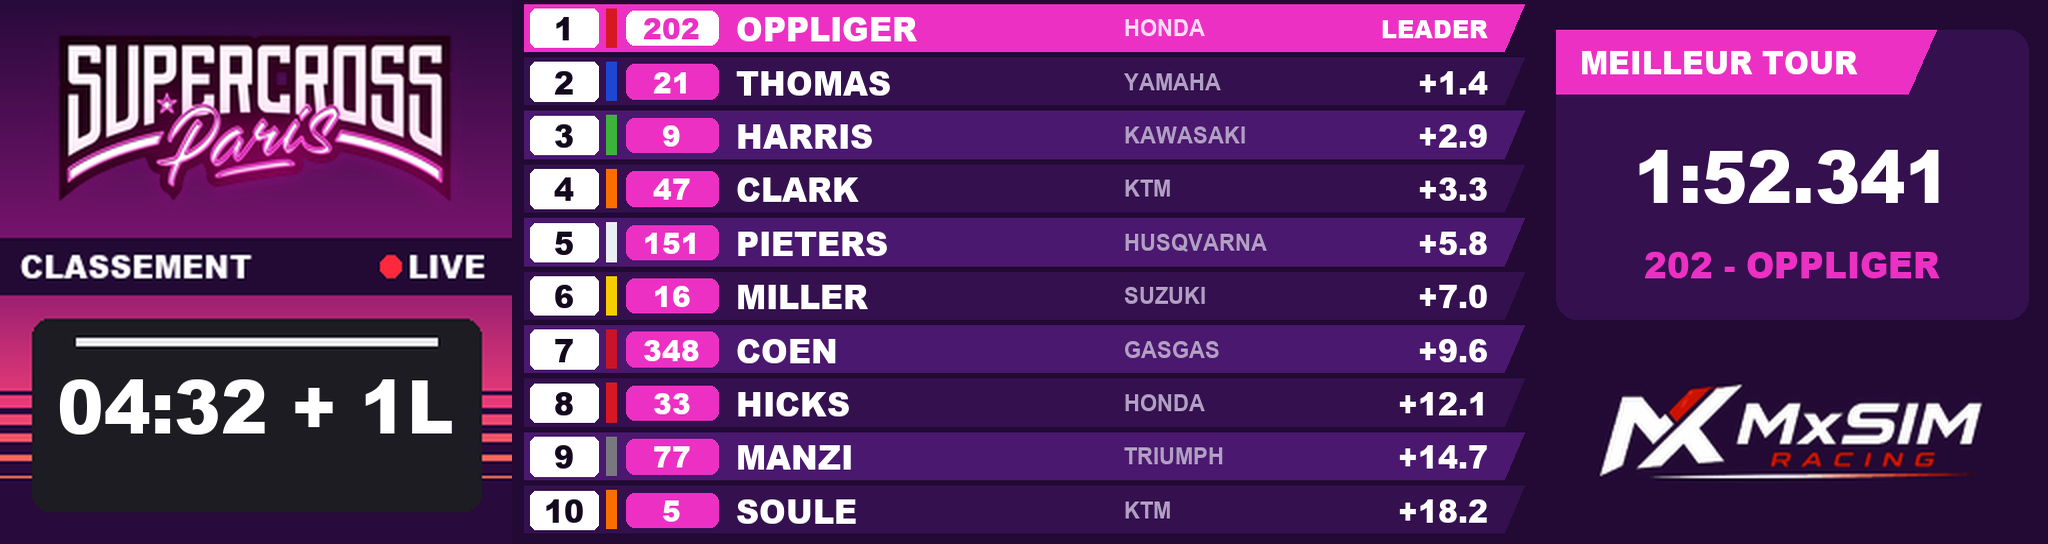
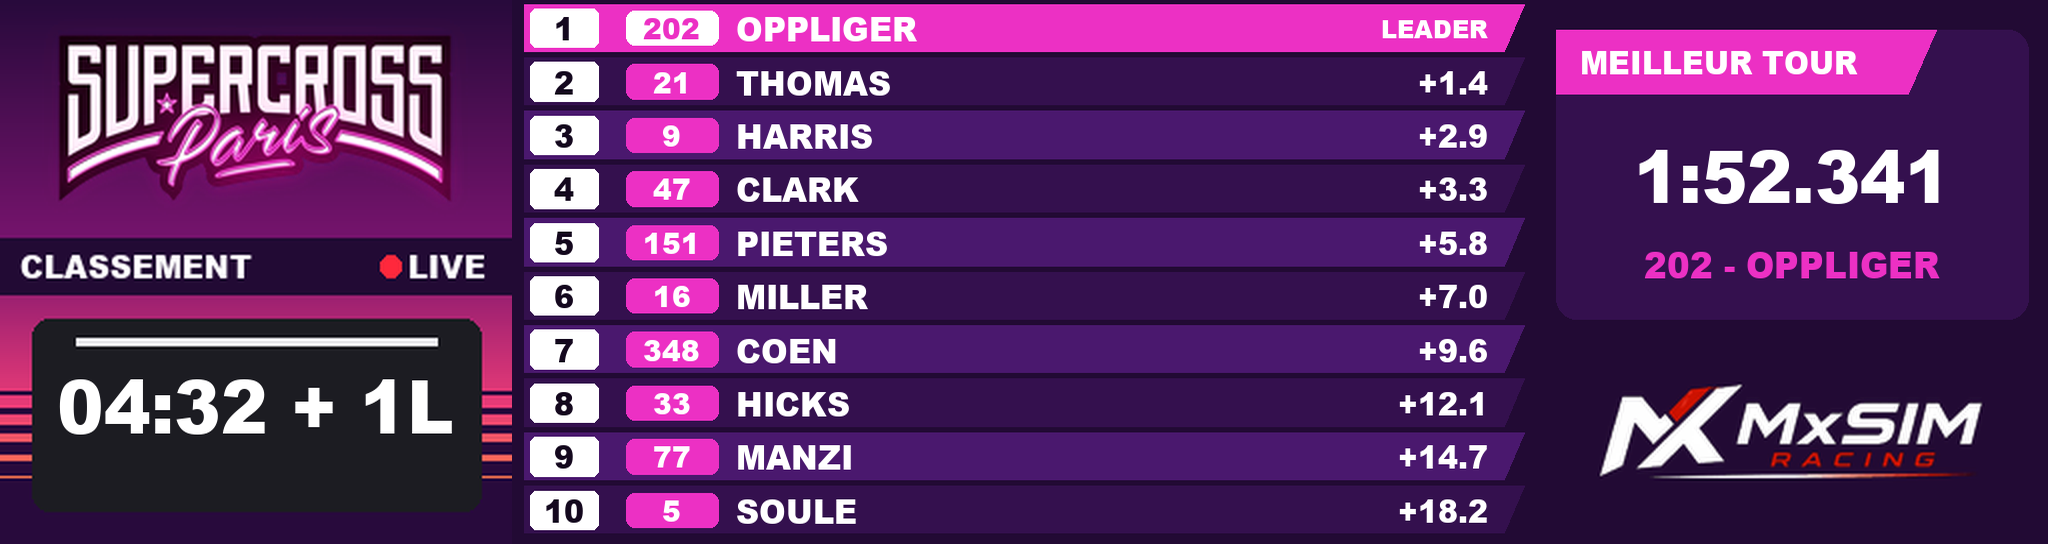
Paris : aperçus top 10 A, B, C sans marques (podium D abandonné)

diff --git a/pistes/paris-2026/apercu_top10.py b/pistes/paris-2026/apercu_top10.py
@@ -63,10 +63,8 @@ def prop_a(T, out):
         y = 2 + k * h; lead = k == 0
         para(d, x0, y, x1, y + h - 3, 10, (ROSE if lead else (VIO3 if k % 2 == 0 else VIO2)))
         rr(d, (x0 + 3, y + 2, x0 + 37, y + h - 5), 3, BLANC); t(d, (x0 + 20, y + h / 2 - 1.5), "%d" % (k + 1), 15, NOIR, "mm")
-        d.rectangle([(x0 + 41) * K, (y + 2) * K, (x0 + 46) * K, (y + h - 5) * K], fill=COUL[mq])
         rr(d, (x0 + 51, y + 3, x0 + 97, y + h - 6), 4, (BLANC if lead else ROSE)); t(d, (x0 + 74, y + h / 2 - 1.5), str(num), 14, (ROSE if lead else BLANC), "mm")
         t(d, (x0 + 106, y + h / 2 - 1.5), nom, 16, BLANC)
-        t(d, (x0 + 300, y + h / 2 - 1.5), mq, 11, (255, 220, 245) if lead else GRIS, bold=False)
         t(d, (x1 - 18, y + h / 2 - 1.5), "LEADER" if lead else ec, 15 if not lead else 12, BLANC, "rm")
     carte_mt(im, d, logo); fin(im, out)
 
@@ -75,20 +73,19 @@ def prop_b(T, out):
     """B : le leader en grand (carte), 2 et 3 en moyen, 4 à 10 en liste à côté."""
     im, logo = base(T); d = ImageDraw.Draw(im)
     num, nom, mq, _ = PIL_[0]; x0 = 262
-    rr(d, (x0, 4, x0 + 246, 132), 10, ROSE); d.rectangle([(x0 + 10) * K, 16 * K, (x0 + 16) * K, 120 * K], fill=COUL[mq])
+    rr(d, (x0, 4, x0 + 246, 132), 10, ROSE)
     t(d, (x0 + 28, 34), "1", 46, BLANC); t(d, (x0 + 70, 26), "LEADER", 13, (255, 220, 245))
-    t(d, (x0 + 70, 56), nom, 24, BLANC); t(d, (x0 + 28, 100), "#%d" % num, 22, NOIR); t(d, (x0 + 120, 102), mq, 14, (255, 230, 248), bold=False)
+    t(d, (x0 + 70, 56), nom, 24, BLANC); t(d, (x0 + 28, 100), "#%d" % num, 22, NOIR)
     for j in (1, 2):
         num, nom, mq, ec = PIL_[j]; y = 138 + (j - 1) * 58
-        rr(d, (x0, y, x0 + 246, y + 54), 8, VIO3); d.rectangle([(x0 + 8) * K, (y + 9) * K, (x0 + 13) * K, (y + 45) * K], fill=COUL[mq])
+        rr(d, (x0, y, x0 + 246, y + 54), 8, VIO3)
         t(d, (x0 + 24, y + 27), str(j + 1), 30, BLANC); t(d, (x0 + 58, y + 18), nom, 17, BLANC)
-        t(d, (x0 + 58, y + 40), "#%d  %s" % (num, mq), 11, ROSE, bold=False); t(d, (x0 + 238, y + 27), ec, 17, BLANC, "rm")
+        t(d, (x0 + 58, y + 40), "#%d" % num, 11, ROSE, bold=False); t(d, (x0 + 238, y + 27), ec, 17, BLANC, "rm")
     x0 = 518; h = 36
     for j in range(3, 10):
         num, nom, mq, ec = PIL_[j]; y = 4 + (j - 3) * h
         para(d, x0, y, x0 + 244, y + h - 4, 8, VIO2 if j % 2 else VIO3)
         rr(d, (x0 + 4, y + 4, x0 + 36, y + h - 8), 3, BLANC); t(d, (x0 + 20, y + h / 2 - 2), str(j + 1), 15, NOIR, "mm")
-        d.rectangle([(x0 + 40) * K, (y + 4) * K, (x0 + 45) * K, (y + h - 8) * K], fill=COUL[mq])
         t(d, (x0 + 52, y + h / 2 - 2), str(num), 14, ROSE); t(d, (x0 + 92, y + h / 2 - 2), nom, 15, BLANC)
         t(d, (x0 + 228, y + h / 2 - 2), ec, 14, BLANC, "rm")
     carte_mt(im, d, logo); fin(im, out)
@@ -101,11 +98,83 @@ def prop_c(T, out):
         x0 = 262 if k < 5 else 518; y = 2 + (k % 5) * h; lead = k == 0
         rr(d, (x0, y, x0 + 244, y + h - 4), 8, ROSE if lead else VIO2)
         rr(d, (x0 + 5, y + 6, x0 + 47, y + h - 10), 6, BLANC); t(d, (x0 + 26, y + h / 2 - 2), str(k + 1), 24, NOIR, "mm")
-        d.rectangle([(x0 + 52) * K, (y + 6) * K, (x0 + 57) * K, (y + h - 10) * K], fill=COUL[mq])
         t(d, (x0 + 65, y + 17), nom, 18, BLANC)
-        t(d, (x0 + 65, y + 36), "#%d  ·  %s" % (num, mq), 11, (255, 225, 248) if lead else ROSE, bold=False)
+        t(d, (x0 + 65, y + 36), "#%d" % num, 11, (255, 225, 248) if lead else ROSE, bold=False)
         t(d, (x0 + 236, y + h / 2 - 2), "LEADER" if lead else ec, 12 if lead else 17, BLANC, "rm")
     carte_mt(im, d, logo); fin(im, out)
+
+
+def prop_d(T, out):
+    """D (« complètement différente, en gardant la DA de Paris : le placement, tout ça ») : podium néon au centre (2 panneaux) devant
+    un soleil rétro et une grille en perspective, logo Supercross Paris au-dessus ; places 4 à 10 à gauche ; chrono, meilleur tour et
+    logo MX Sim à droite."""
+    D_ = os.path.join(T, *TD.SUB.split("/"))
+    fa = Image.open(os.path.join(D_, "fond_a.png")).convert("RGBA"); fb = Image.open(os.path.join(D_, "fond_b.png")).convert("RGBA")
+    im = Image.new("RGBA", (W, H), (16, 4, 28, 255)); d = ImageDraw.Draw(im)
+    # centre : ciel dégradé, soleil rayé, grille au sol
+    cx, top, hz = 512, 0, 168
+    for y in range(top, hz):
+        f = (y - top) / (hz - top); c = tuple(int(a + (b - a) * f) for a, b in zip((22, 6, 40), (92, 18, 110)))
+        d.line([((256 + 2) * K, y * K), ((768 - 2) * K, y * K)], fill=c, width=K)
+    sun = Image.new("RGBA", (W, H), (0, 0, 0, 0)); ds = ImageDraw.Draw(sun); R = 78
+    for y in range(hz - R, hz):
+        f = (y - (hz - R)) / R; c = tuple(int(a + (b - a) * f) for a, b in zip((255, 214, 90), (236, 48, 196)))
+        if (y > hz - 40 and (y // 5) % 2 == 0):
+            continue
+        dx = (R * R - (hz - y) ** 2) ** 0.5
+        ds.line([((cx - dx) * K, y * K), ((cx + dx) * K, y * K)], fill=c + (255,), width=K)
+    im.alpha_composite(sun)
+    d.rectangle([258 * K, hz * K, 766 * K, 256 * K], fill=(26, 6, 44))
+    for i in range(-12, 13):
+        d.line([(cx * K, hz * K), ((cx + i * 60) * K, 256 * K)], fill=(150, 40, 170), width=K)
+    for j, yy in enumerate((174, 184, 198, 218, 246)):
+        d.line([(258 * K, yy * K), (766 * K, yy * K)], fill=(150, 40, 170), width=K)
+    d.rectangle([0, hz * K, 257 * K, 256 * K], fill=(16, 4, 28)); d.rectangle([767 * K, hz * K, 1024 * K, 256 * K], fill=(16, 4, 28))   # grille : centre seulement
+    # logo Supercross Paris en haut au centre
+    LOGOS = os.path.join(os.path.dirname(os.path.dirname(os.path.dirname(os.path.abspath(__file__)))), 'commun', 'assets', 'logos')
+    sp = Image.open(os.path.join(os.path.dirname(os.path.abspath(__file__)), 'refs', 'paddock2026', 'logos', 'supercross_paris.webp')).convert('RGBA')
+    sp = sp.crop(sp.getbbox()); lw = 150; sp = sp.resize((lw * K, int(lw * sp.height / sp.width) * K), Image.LANCZOS)
+    im.alpha_composite(sp, (int((cx - lw / 2) * K), 6 * K))
+    rr(d, (cx + 84, 14, cx + 134, 32), 9, (236, 30, 60)); t(d, (cx + 109, 23), "LIVE", 11, BLANC, "mm")
+    # podium (2 | 1 | 3)
+    steps = [(1, cx - 165, 152, 110), (0, cx - 55, 124, 110), (2, cx + 55, 172, 110)]
+    for k, x0, ytop, w in steps:
+        num, nom, mq, ec = PIL_[k]
+        d.rectangle([x0 * K, ytop * K, (x0 + w) * K, 252 * K], fill=(38, 10, 62))
+        d.rectangle([x0 * K, ytop * K, (x0 + w) * K, (ytop + 4) * K], fill=ROSE)
+        d.rectangle([x0 * K, (ytop + 4) * K, (x0 + w) * K, (ytop + 8) * K], fill=COUL[mq])
+        t(d, (x0 + w / 2, ytop + 32), str(k + 1), 30, ROSE if k else BLANC, "mm")
+        t(d, (x0 + w / 2, ytop - 30), nom, 15, BLANC, "mm"); t(d, (x0 + w / 2, ytop - 13), "#%d  %s" % (num, mq), 10, (255, 200, 240), "mm", bold=False)
+        if ec:
+            t(d, (x0 + w / 2, ytop + 60), ec, 14, BLANC, "mm")
+        else:
+            t(d, (x0 + w / 2, ytop + 60), "LEADER", 11, (255, 214, 90), "mm")
+    # gauche : 4 à 10
+    t(d, (14, 18), "CLASSEMENT", 15, BLANC); d.rectangle([14 * K, 30 * K, 120 * K, 33 * K], fill=ROSE)
+    h = 30.5
+    for j in range(3, 10):
+        num, nom, mq, ec = PIL_[j]; y = 40 + (j - 3) * h
+        d.line([(10 * K, (y + h - 2) * K), (246 * K, (y + h - 2) * K)], fill=(70, 26, 100), width=K)
+        t(d, (24, y + h / 2), str(j + 1), 18, ROSE, "mm")
+        d.rectangle([40 * K, (y + 6) * K, 44 * K, (y + h - 8) * K], fill=COUL[mq])
+        t(d, (52, y + h / 2), nom, 15, BLANC); t(d, (52 + 0, y + h / 2), "", 10, BLANC)
+        t(d, (176, y + h / 2), "#%d" % num, 11, (200, 160, 220), "rm", bold=False)
+        t(d, (244, y + h / 2), ec, 14, BLANC, "rm")
+    # droite : chrono, meilleur tour, logo MX Sim
+    x0 = 768
+    t(d, (x0 + 128, 22), "TEMPS RESTANT", 12, (200, 160, 220), "mm", bold=False)
+    t(d, (x0 + 128, 56), "04:32 + 1L", 30, BLANC, "mm")
+    d.rectangle([(x0 + 40) * K, 80 * K, (x0 + 216) * K, 82 * K], fill=ROSE)
+    t(d, (x0 + 128, 102), "MEILLEUR TOUR", 12, (200, 160, 220), "mm", bold=False)
+    t(d, (x0 + 128, 132), MT[2], 26, (255, 214, 90), "mm"); t(d, (x0 + 128, 158), "%d - %s" % MT[:2], 14, ROSE, "mm")
+    import numpy as np
+    mx_ = np.asarray(Image.open(os.path.join(LOGOS, 'user', 'logo mxsim racing.png')).convert('RGB'), float)
+    mx_ = Image.fromarray(np.dstack([mx_, np.clip((mx_.max(-1) - 25) * 4, 0, 255)]).astype(np.uint8), 'RGBA'); mx_ = mx_.crop(mx_.getbbox())   # fond noir -> transparent
+    mw = 170; mx_ = mx_.resize((mw * K, int(mw * mx_.height / mx_.width) * K), Image.LANCZOS)
+    im.alpha_composite(mx_, (int((x0 + 128 - mw / 2) * K), 186 * K))
+    for xs in (256, 768):                   # séparations néon entre les zones
+        d.line([(xs * K, 6 * K), (xs * K, 250 * K)], fill=ROSE, width=K)
+    fin(im, out)
 
 
 def fin(im, out):
